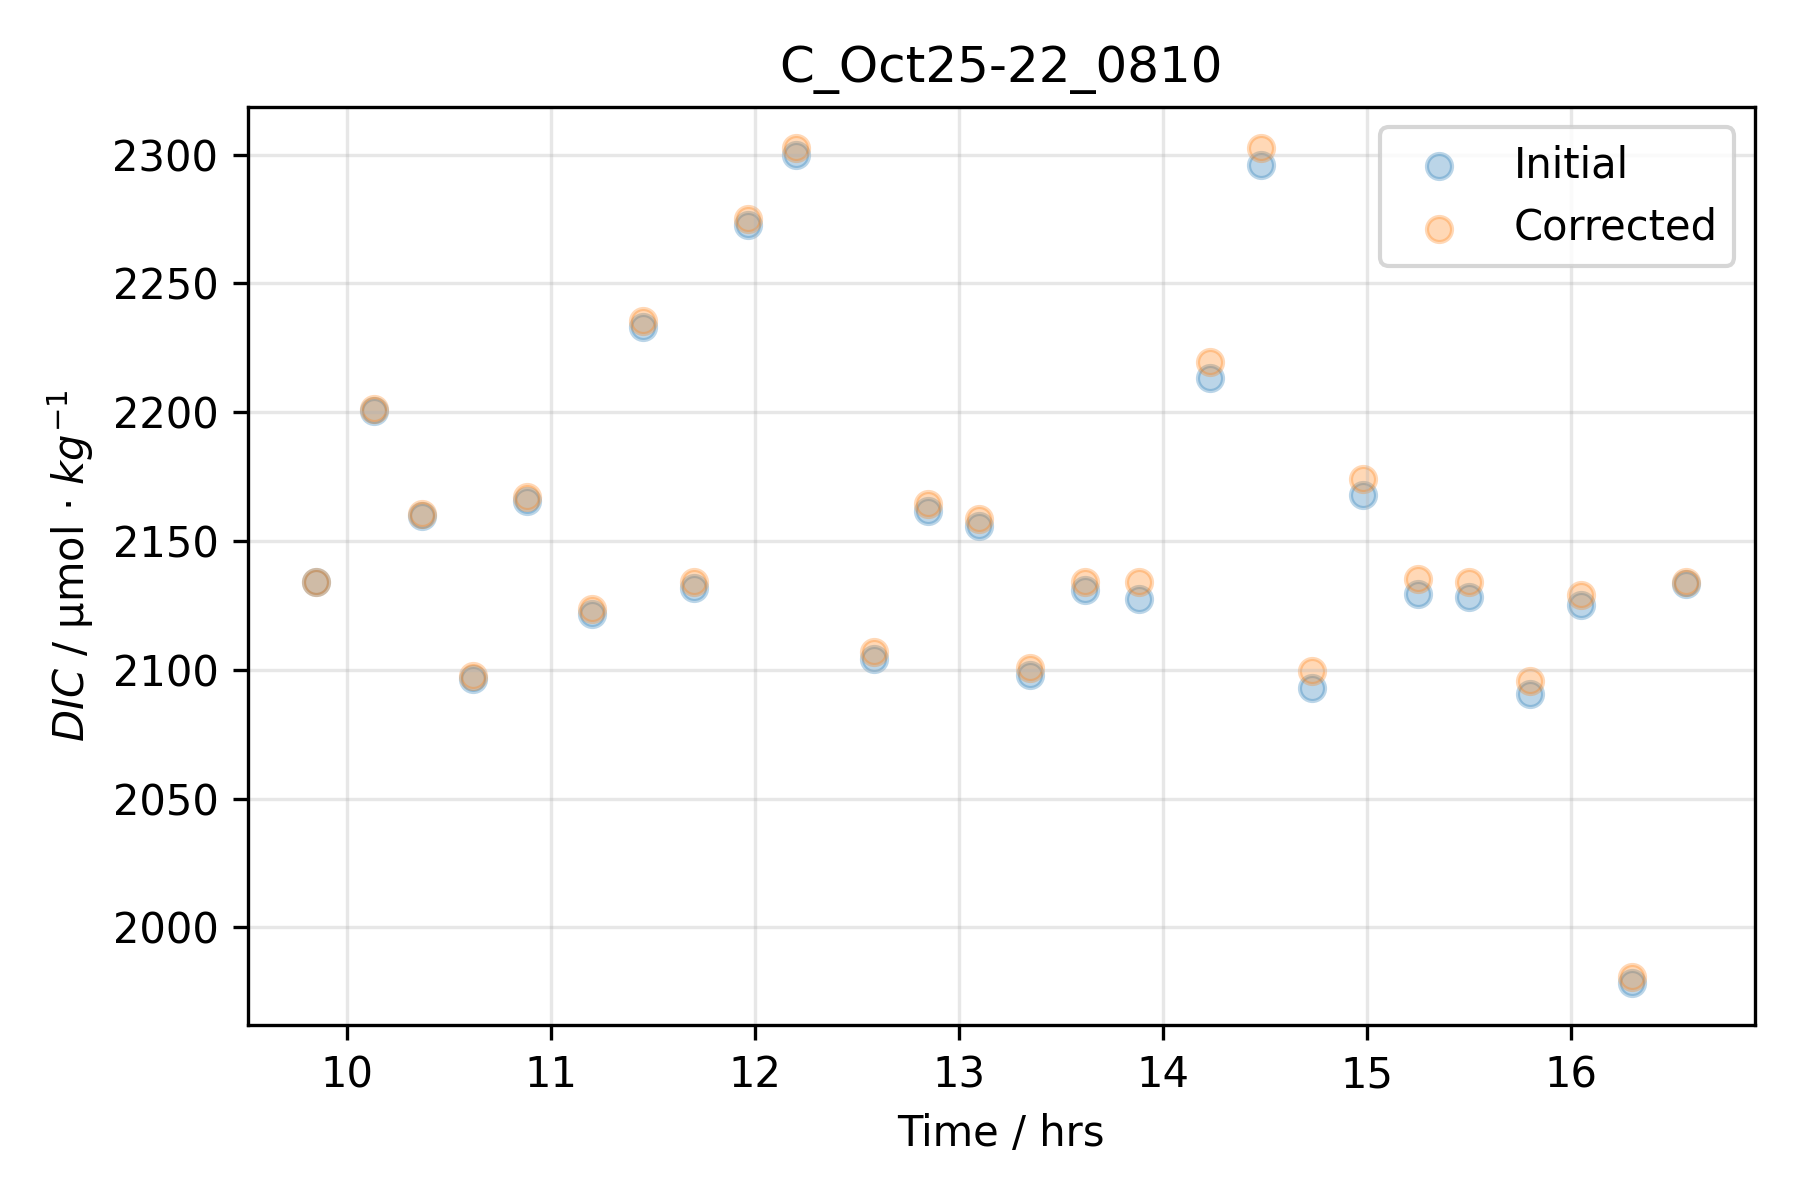
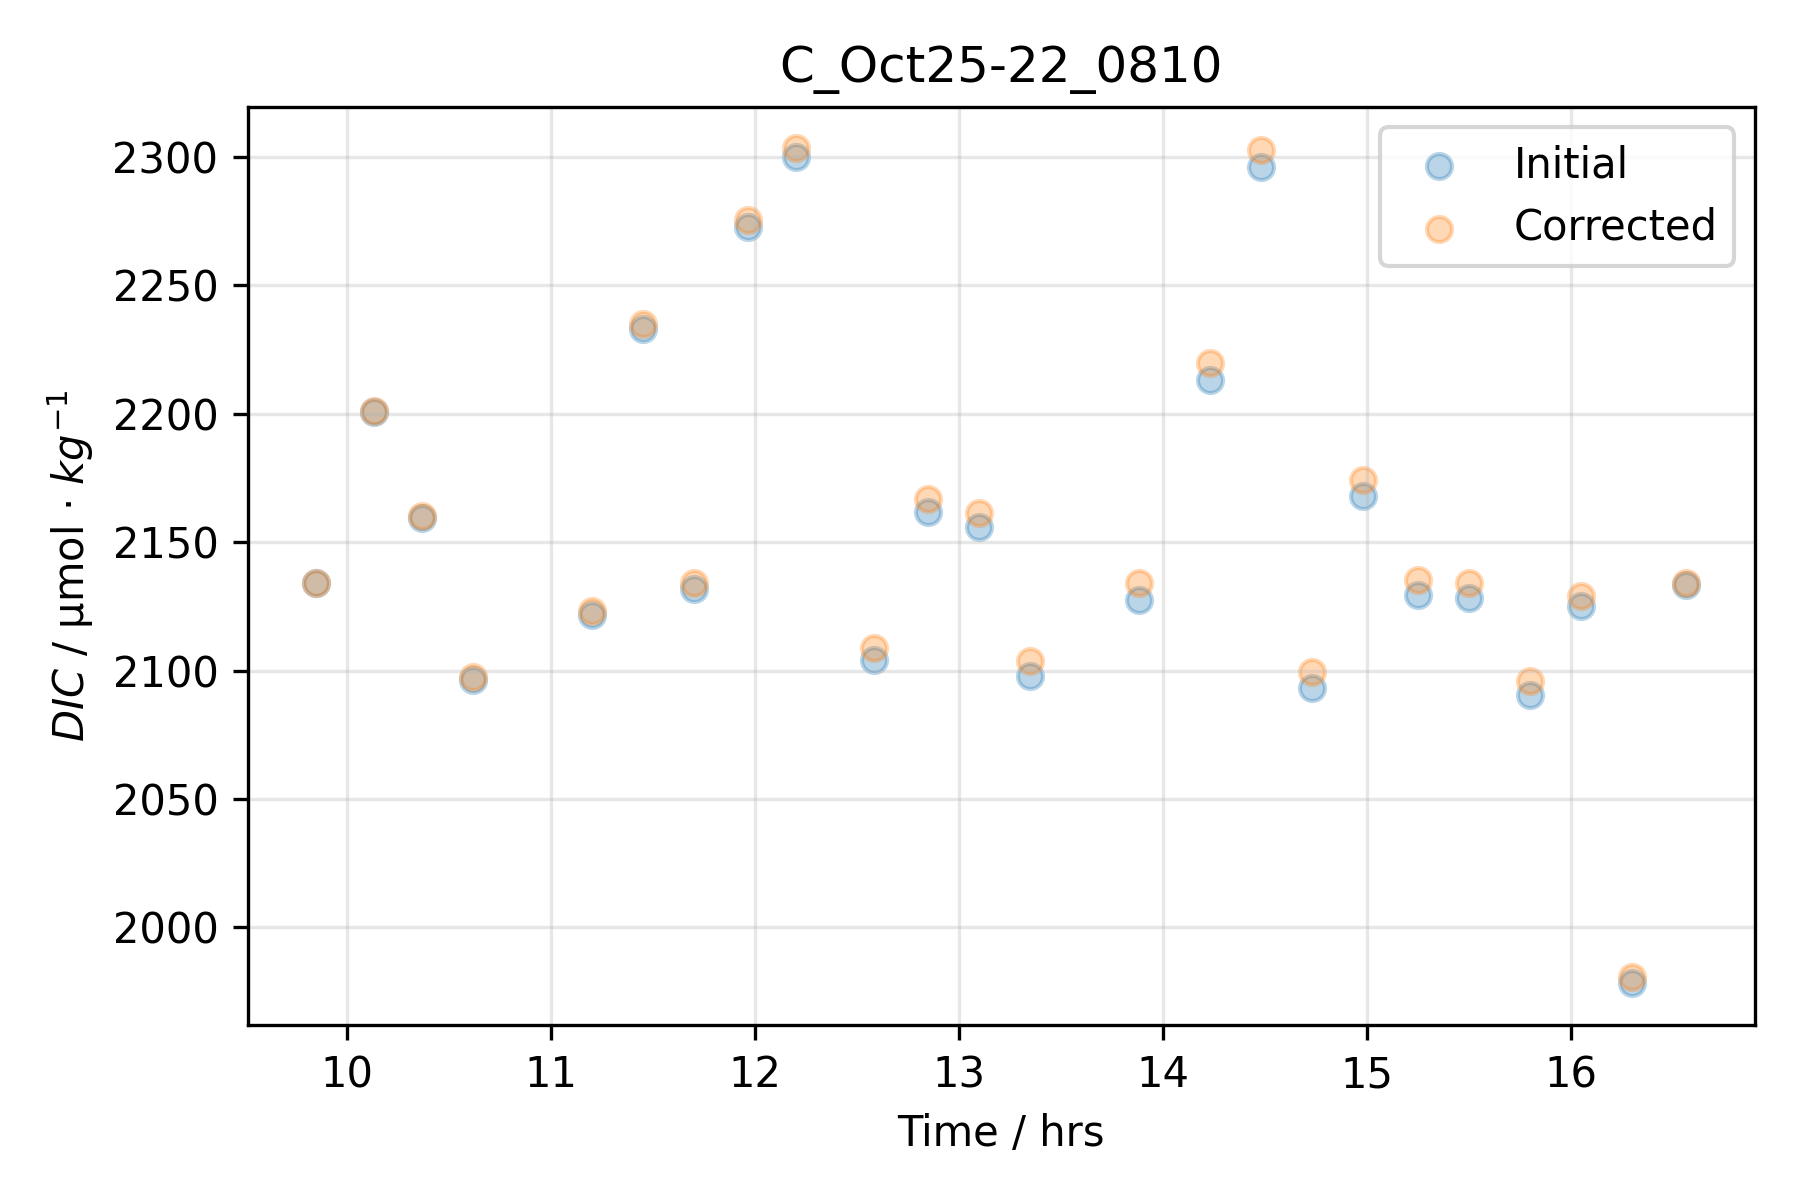
formatting

diff --git a/SO289-64PE503/correct_DIC_drift_SO289_64PE503.py b/SO289-64PE503/correct_DIC_drift_SO289_64PE503.py
@@ -2,11 +2,16 @@ import pandas as pd
 from scipy.interpolate import PchipInterpolator
 from matplotlib import pyplot as plt
 import matplotlib.dates as mdates
+import seaborn as sns
 
 # Import dataframe
 df = pd.read_csv("data/SO289-64PE503_results.csv")
 
-# For now only keep Oct 31
+# Only keep flag = 2
+L = df["flag"] == 4
+df = df[L]
+
+# Create a list of analysis days
 analysis_days = list(df.loc[df["real_day"]==True, "dic_cell_id"].unique()) 
 
 # Calculate DIC offset for each analysis day
@@ -79,7 +84,7 @@ for d in analysis_days:
     plt.tight_layout()
     plt.savefig("./figs/drift_correction/correct_DIC_drift_{}.png".format(d))
 
-#%% ==== PLOT ALL SAMPLES
+# ==== PLOT ALL SAMPLES
 # Create a column with hours and minutes
 df["analysis_datetime"] = pd.to_datetime(df["analysis_datetime"])
 df["datetime"] = df["analysis_datetime"].dt.strftime("%H:%M")
